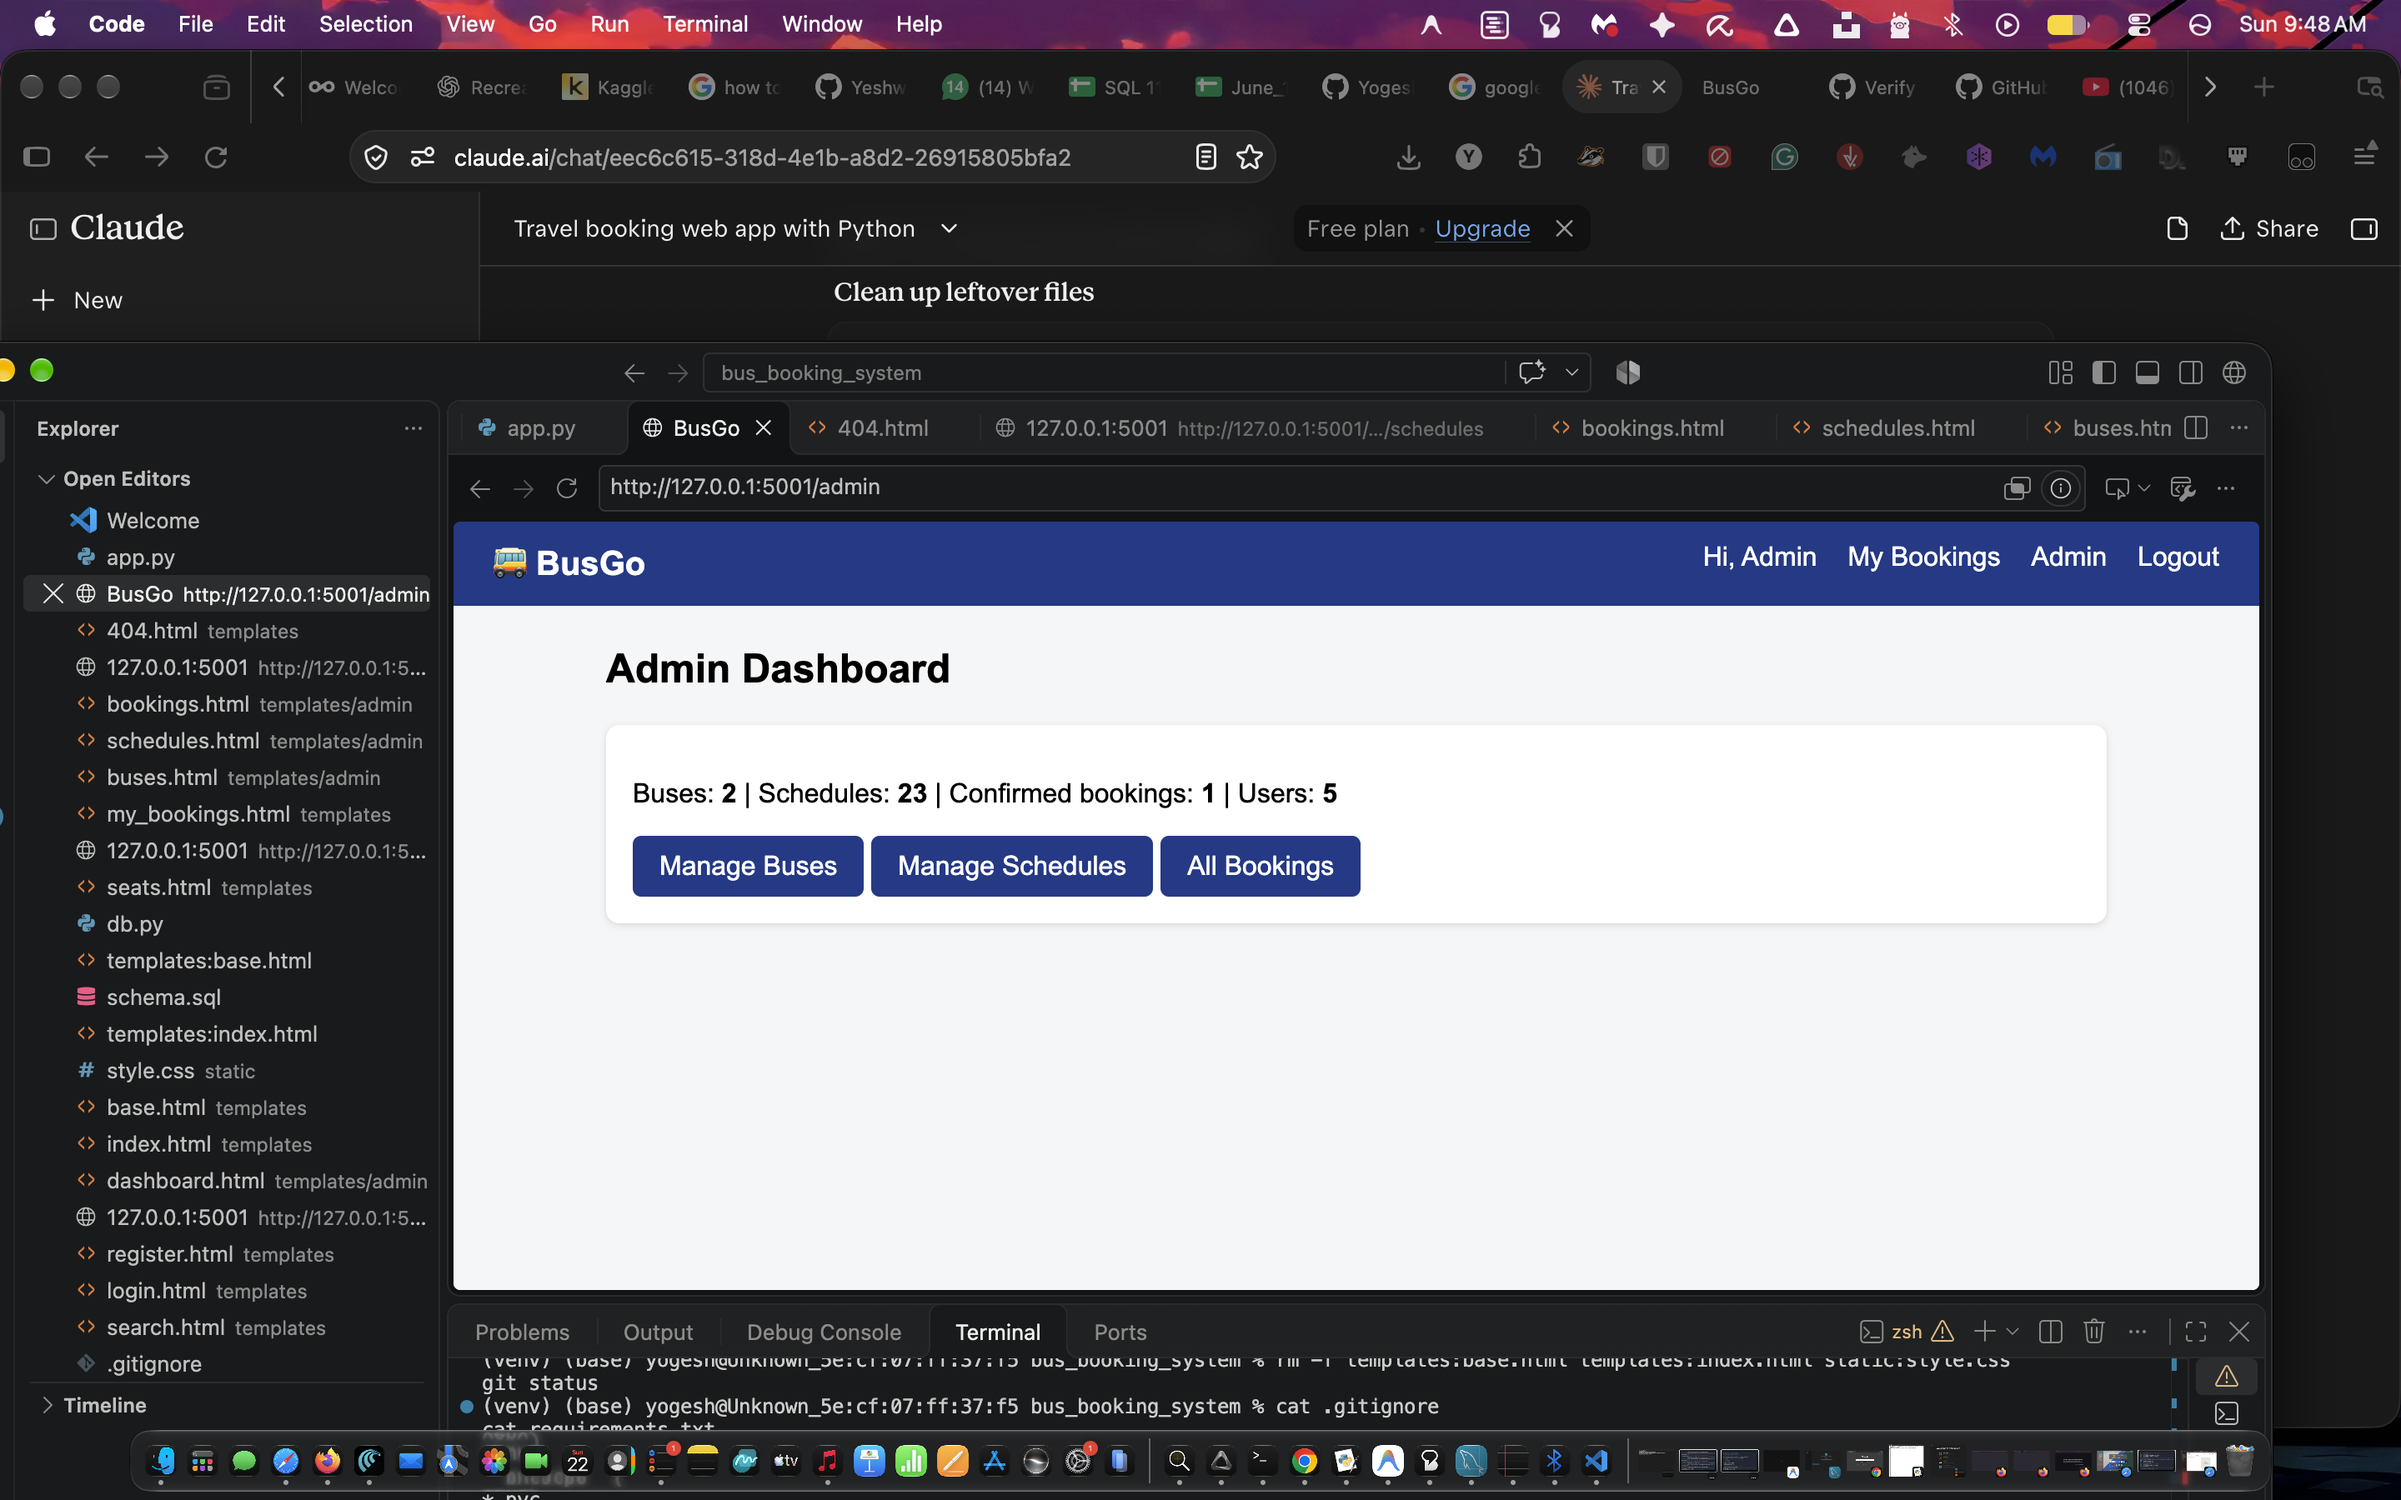
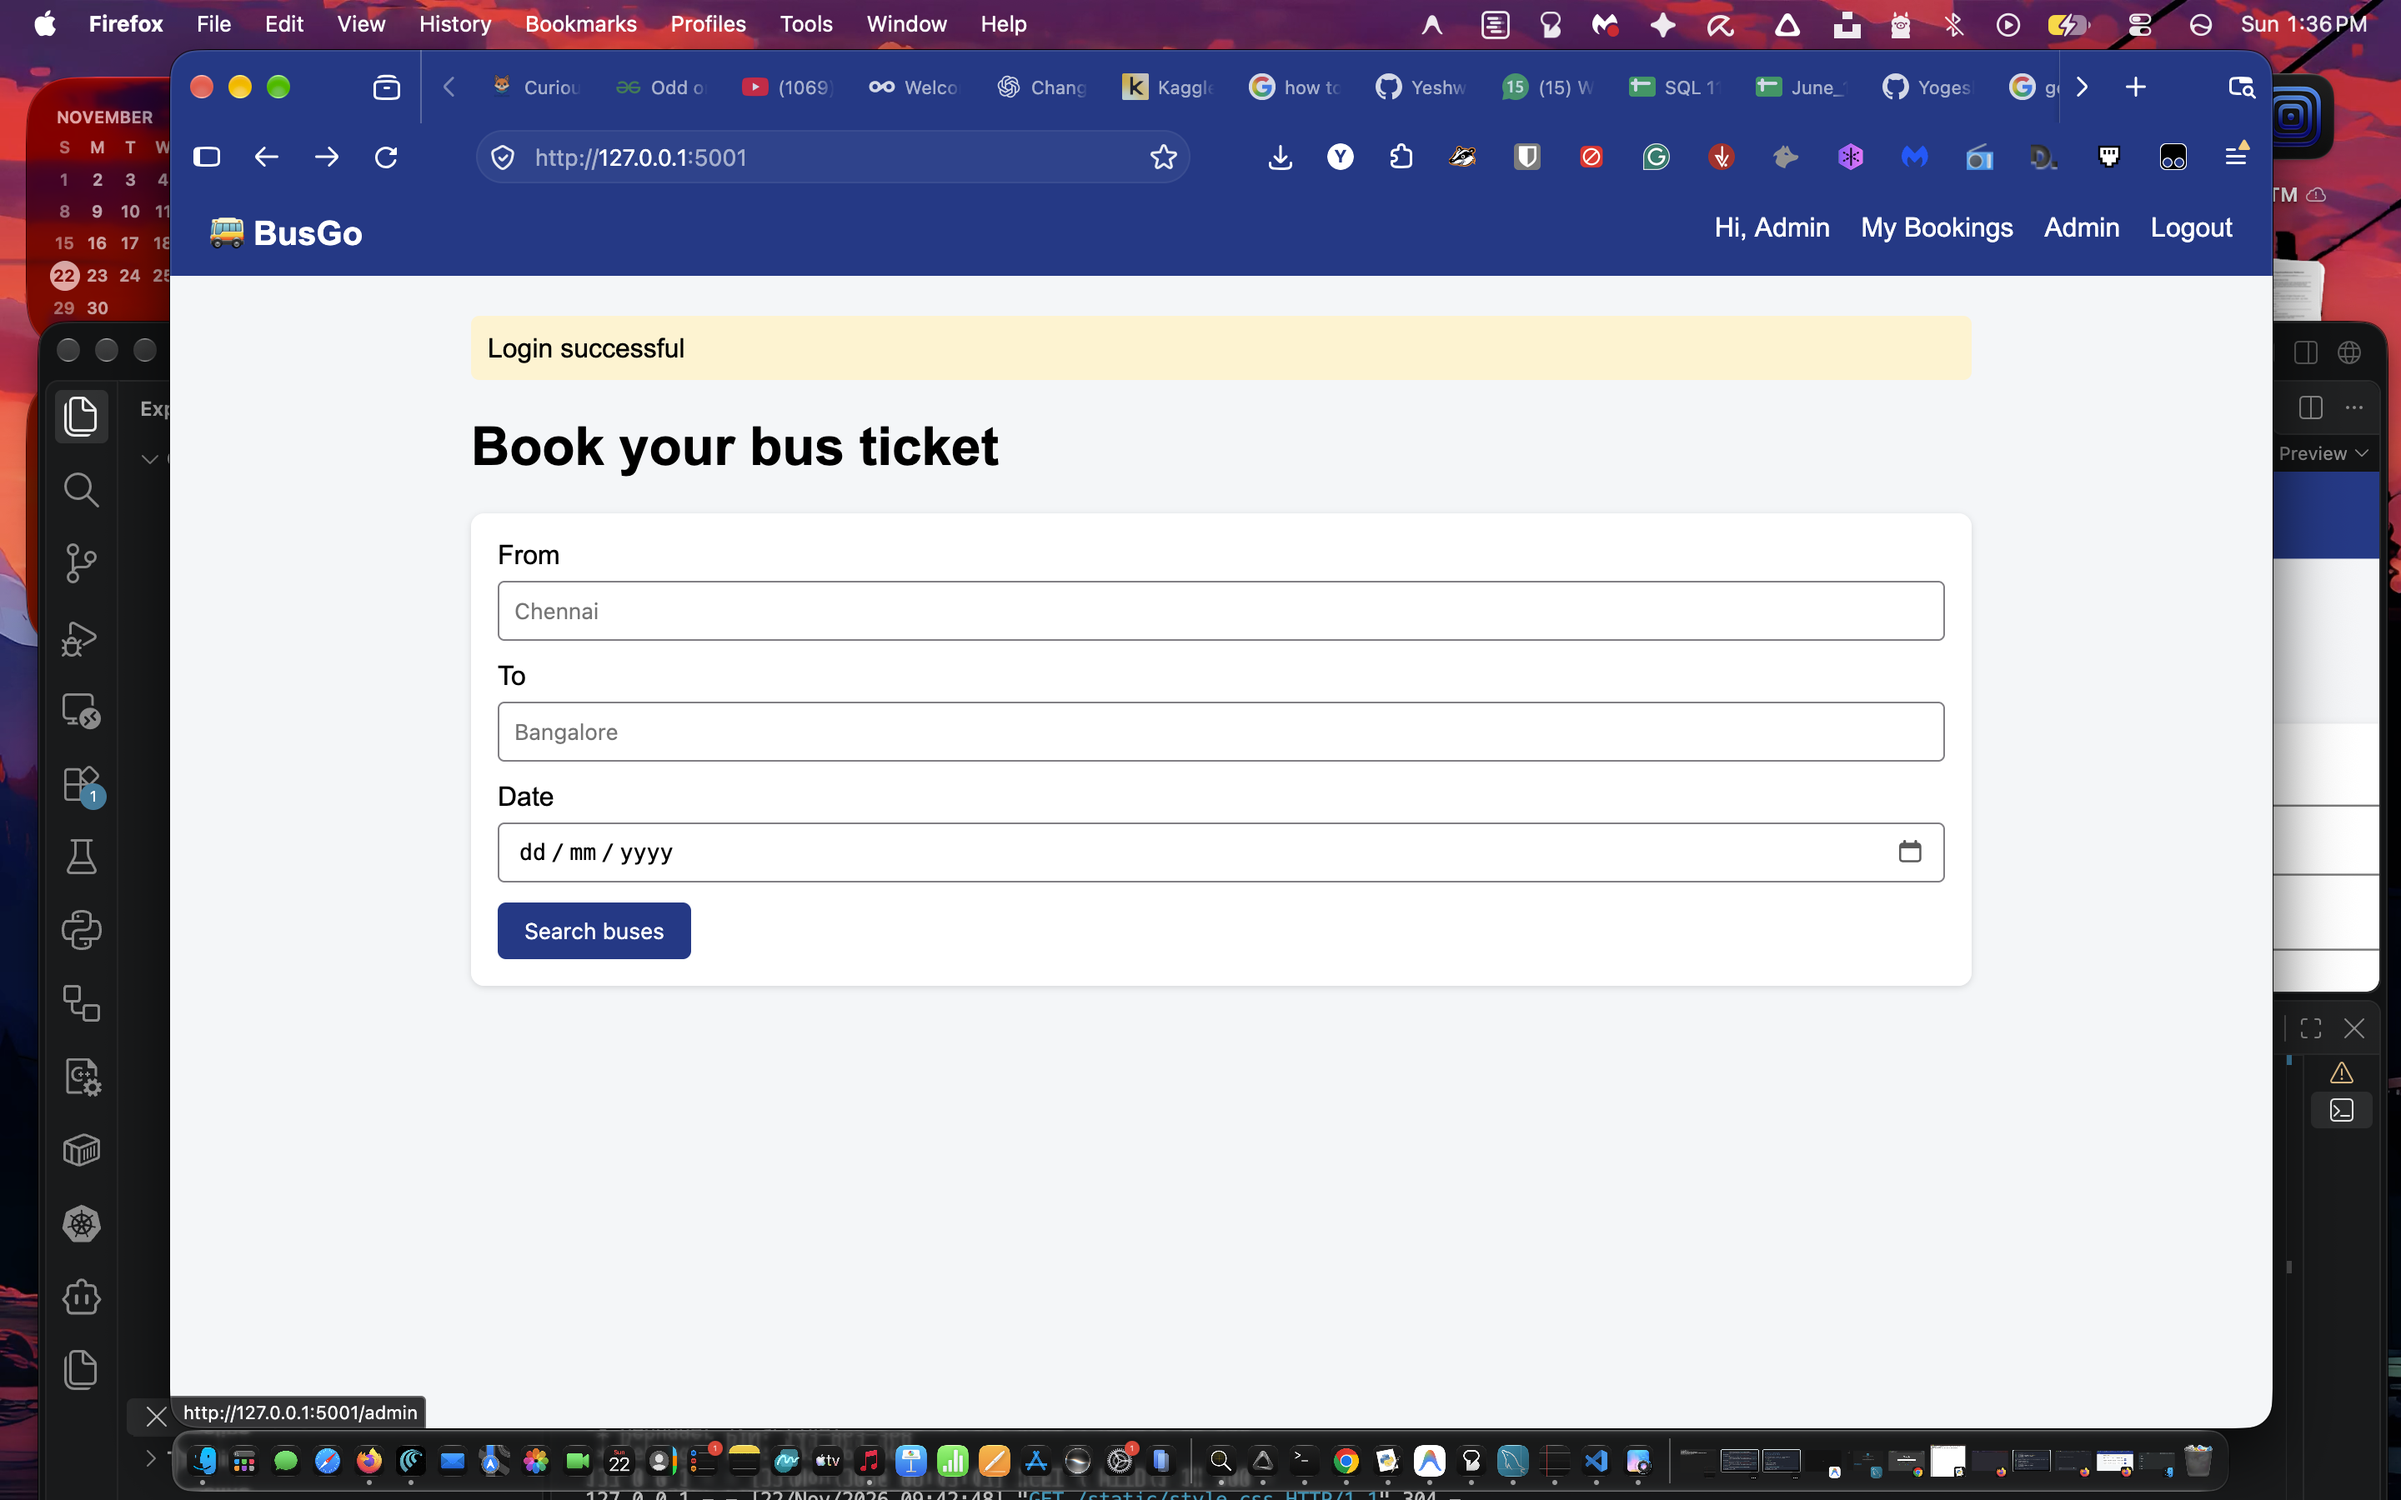
Docs: Updated README and added browser screenshots

diff --git a/README.md b/README.md
@@ -28,9 +28,7 @@ BusGo is a web-based bus booking application built using Python and Flask. Users
 - Cancel bookings
 - Custom 404 error page
 
-## Screenshots
 
-### Home Page
 ## Screenshots
 
 ### User Interface
@@ -39,43 +37,45 @@ BusGo is a web-based bus booking application built using Python and Flask. Users
 
 [![Home Page](screenshots/home.png)](screenshots/home.png)
 
-**Bus Search**
+**User Home Page**
 
-[![Bus Search](screenshots/homesearch.png)](screenshots/homesearch.png)
+[![User Home](screenshots/user_home.png)](screenshots/user_home.png)
 
-**Seat Booking**
+**Seat Selection**
 
-[![Seat Booking](screenshots/seat_booking.png)](screenshots/seat_booking.png)
+[![Seat Selection](screenshots/user_seat_selection.png)](screenshots/user_seat_selection.png)
 
-**Seat Selection – View 2**
+**User Bookings**
 
-[![Seat Selection](screenshots/seats_booking_1.png)](screenshots/seats_booking_1.png)
-
-**Seat Selection – View 3**
-
-[![Seat Selection](screenshots/seats_booking_2.png)](screenshots/seats_booking_2.png)
-
-**My Bookings**
-
-[![My Bookings](screenshots/my_bookings.png)](screenshots/my_bookings.png)
+[![User Bookings](screenshots/user_bookings.png)](screenshots/user_bookings.png)
 
 ### Admin Panel
 
+**Admin Login**
+
+[![Admin Login](screenshots/Admin.png)](screenshots/Admin.png)
+
 **Admin Dashboard**
 
-[![Admin Dashboard](screenshots/Admin.png)](screenshots/Admin.png)
+[![Admin Dashboard](screenshots/admin-dashboard.png)](screenshots/admin-dashboard.png)
 
 **Manage Buses**
 
-[![Manage Buses](screenshots/my_buses.png)](screenshots/my_buses.png)
+[![Manage Buses](screenshots/admin_buses.png)](screenshots/admin_buses.png)
 
 **Manage Schedules**
 
-[![Manage Schedules](screenshots/my_schedules.png)](screenshots/my_schedules.png)
+[![Manage Schedules](screenshots/Admin_schedules.png)](screenshots/Admin_schedules.png)
+
+**Manage Bookings**
+
+[![Manage Bookings](screenshots/Admin_bookings.png)](screenshots/Admin_bookings.png)
 
 **All Bookings**
 
-[![All Bookings](screenshots/all_bookings.png)](screenshots/all_bookings.png)
+[![All Bookings](screenshots/Admin_all_bookings.png)](screenshots/Admin_all_bookings.png)
+
+
 ## Run Locally
 
 ### 1. Clone the repository
